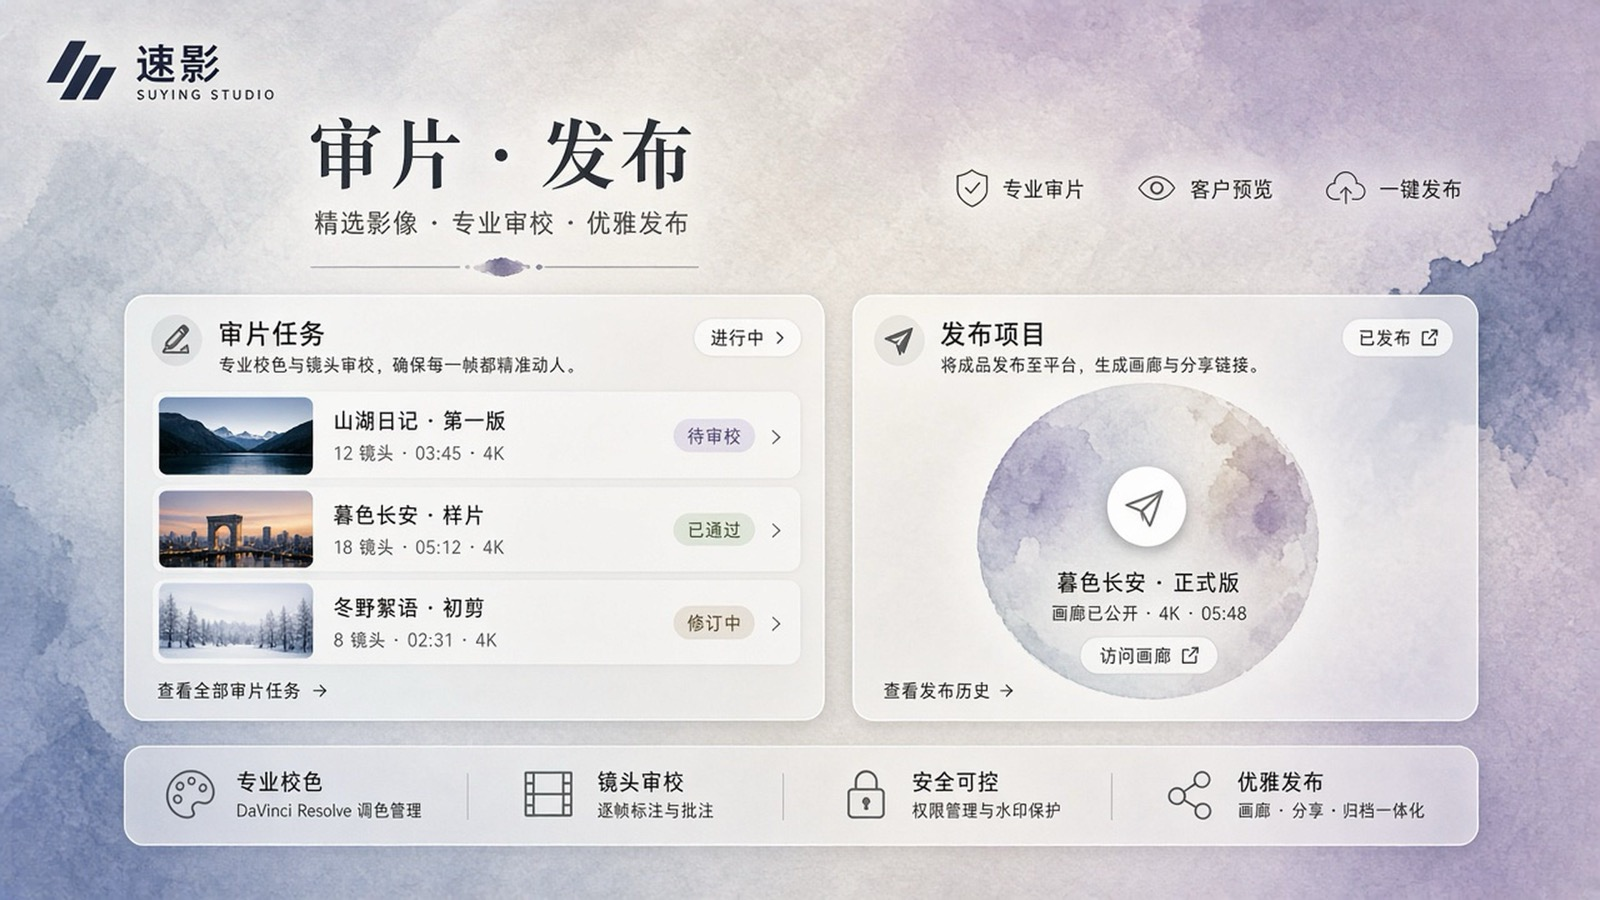
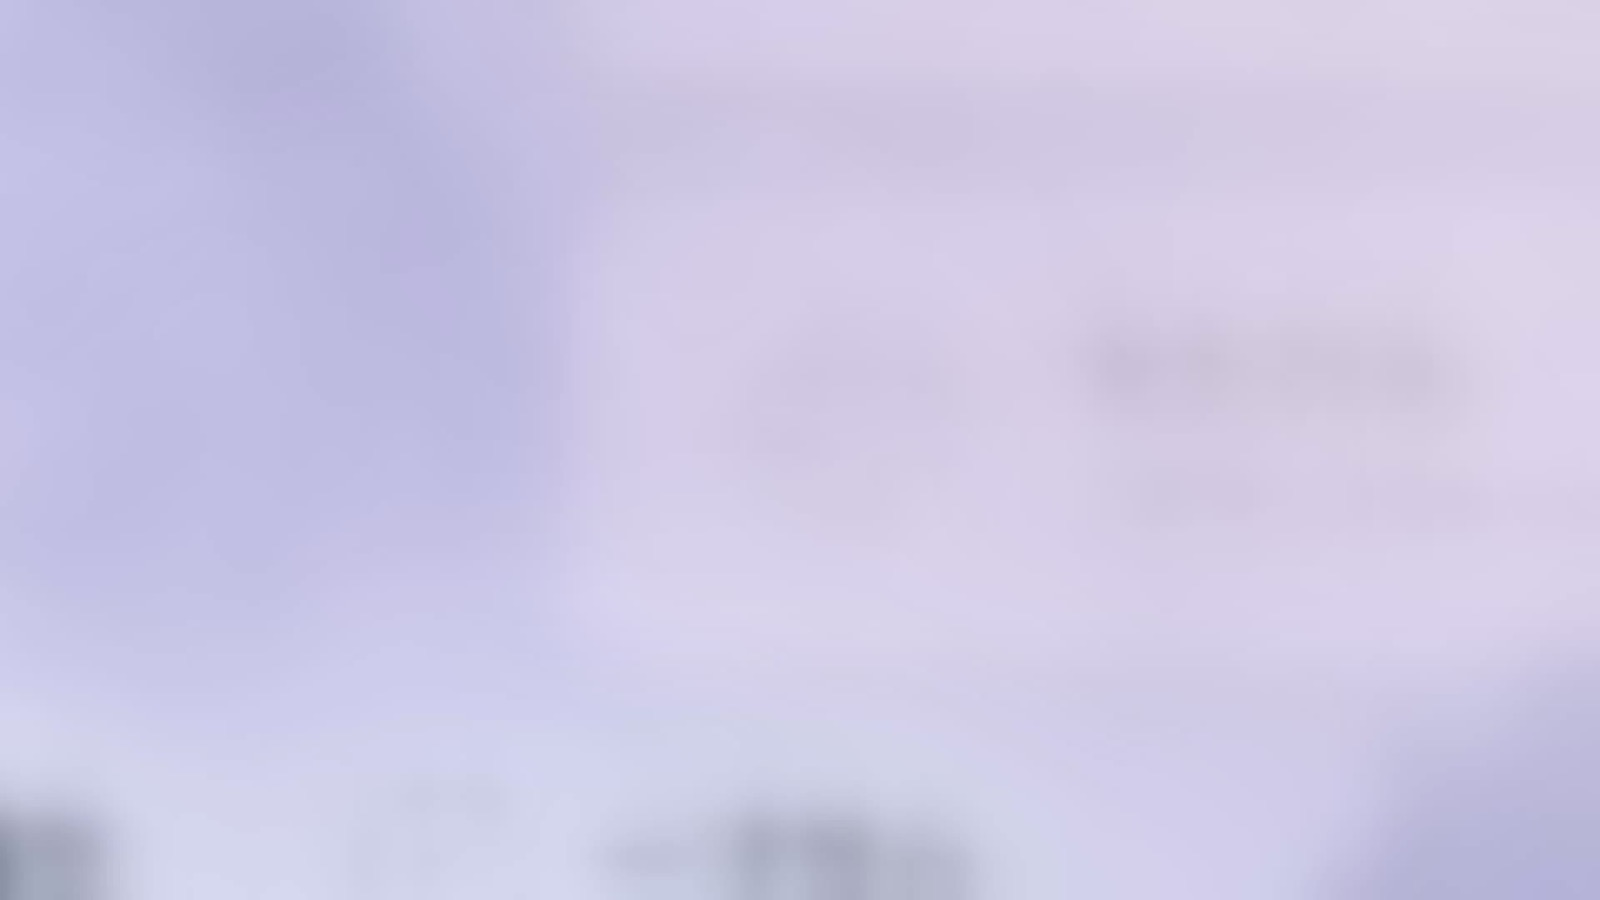
fix(desktop): fuse glass into pigment wash
Replace concept-UI wash (ghost glyphs) with abstract pigment texture,
drop opaque overview stage plates, and lower glass alpha so lavender
paper bleeds through rail/cards instead of sitting on a gray slab.

diff --git a/apps/desktop/src/styles/immersive.css b/apps/desktop/src/styles/immersive.css
@@ -12,14 +12,18 @@ body:has(.app--immersive) #root {
 /* ========== Stage: full-bleed watercolor paper ========== */
 .app.app--immersive,
 .app--gui.app--immersive {
-  background-color: #e6e0ea;
-  /* Wash photo first (visible), then only a light center veil — match AV paper */
+  /* Pure pigment stage: CSS wash fields + clean photo texture (no concept-UI ghosts) */
+  background-color: #ebe4ef;
   background-image:
-    radial-gradient(ellipse 50% 40% at 50% 45%, rgba(255, 255, 255, 0.22), transparent 70%),
+    radial-gradient(ellipse 70% 55% at 12% 18%, rgba(170, 155, 195, 0.45), transparent 62%),
+    radial-gradient(ellipse 65% 50% at 90% 10%, rgba(120, 105, 155, 0.38), transparent 58%),
+    radial-gradient(ellipse 55% 45% at 78% 88%, rgba(145, 130, 170, 0.32), transparent 60%),
+    radial-gradient(ellipse 50% 40% at 18% 85%, rgba(175, 185, 205, 0.28), transparent 55%),
+    radial-gradient(ellipse 48% 42% at 50% 48%, rgba(255, 252, 250, 0.55), transparent 70%),
     var(--wash-image);
-  background-size: cover, cover;
-  background-position: center, center;
-  background-attachment: fixed, fixed;
+  background-size: cover, cover, cover, cover, cover, cover;
+  background-position: center;
+  background-attachment: fixed;
   background-repeat: no-repeat;
   color: var(--text);
   font-family: var(--font-sans);
@@ -46,7 +50,7 @@ body:has(.app--immersive) #root {
   inset: 0;
   z-index: 0;
   background:
-    radial-gradient(ellipse 48% 38% at 52% 44%, rgba(255, 255, 255, 0.12), transparent 72%);
+    radial-gradient(ellipse 55% 45% at 50% 46%, rgba(255, 252, 250, 0.18), transparent 75%);
 }
 
 .app.app--immersive > * {
@@ -66,11 +70,11 @@ body:has(.app--immersive) #root {
   border-radius: 24px;
   border: 1px solid var(--line-glass);
   border-right: 1px solid var(--line-glass);
-  background: rgba(255, 255, 255, 0.38) !important;
+  background: rgba(255, 255, 255, 0.22) !important;
   box-shadow: var(--shadow-card);
-  backdrop-filter: var(--glass);
-  -webkit-backdrop-filter: var(--glass);
-  overflow: hidden;
+  backdrop-filter: var(--glass-strong);
+  -webkit-backdrop-filter: var(--glass-strong);
+  overflow: visible;
 }
 
 .app--immersive .topbar {
@@ -78,9 +82,9 @@ body:has(.app--immersive) #root {
   border-radius: 20px;
   border: 1px solid var(--line-glass);
   border-bottom: 1px solid var(--line-glass);
-  background: rgba(255, 255, 255, 0.4) !important;
-  backdrop-filter: var(--glass);
-  -webkit-backdrop-filter: var(--glass);
+  background: rgba(255, 255, 255, 0.22) !important;
+  backdrop-filter: var(--glass-strong);
+  -webkit-backdrop-filter: var(--glass-strong);
   box-shadow: var(--shadow-card);
 }
 
@@ -217,16 +221,29 @@ body:has(.app--immersive) #root {
 .app--immersive .app-dialog,
 .app--immersive .cmdk-panel,
 .app--immersive .page-stack > .panel,
-.app--immersive .overview-command,
 .app--immersive .pipeline-board,
 .app--immersive .overview-pipeline {
-  background: var(--surface-2) !important;
-  border: 1px solid var(--line-glass) !important;
+  background: rgba(255, 255, 255, 0.42) !important;
+  border: 1px solid rgba(255, 255, 255, 0.55) !important;
   box-shadow: var(--shadow-card) !important;
   border-radius: var(--radius) !important;
   backdrop-filter: var(--glass);
   -webkit-backdrop-filter: var(--glass);
   color: var(--text);
+}
+
+/* overview-command is a layout stage, NOT a frosted slab — wash must show through */
+.app--immersive .overview-command,
+.app--immersive .page-stack,
+.app--immersive .overview-page,
+.app--immersive .review-page,
+.app--immersive .publish-page,
+.app--immersive .tab-pane:not([hidden]) {
+  background: transparent !important;
+  border: 0 !important;
+  box-shadow: none !important;
+  backdrop-filter: none !important;
+  -webkit-backdrop-filter: none !important;
 }
 
 .app--immersive .stat {
@@ -453,12 +470,14 @@ body:has(.app--immersive) #root {
 }
 
 .app--immersive .av-card {
-  background: rgba(255, 255, 255, 0.62) !important;
-  border: 1px solid var(--line-glass) !important;
-  border-radius: 24px !important;
-  box-shadow: var(--shadow-float) !important;
-  backdrop-filter: var(--glass-strong);
-  -webkit-backdrop-filter: var(--glass-strong);
+  background: rgba(255, 255, 255, 0.30) !important;
+  border: 1px solid rgba(255, 255, 255, 0.45) !important;
+  border-radius: 26px !important;
+  box-shadow:
+    0 0 0 1px rgba(255, 255, 255, 0.25) inset,
+    0 18px 48px rgba(90, 70, 120, 0.07) !important;
+  backdrop-filter: blur(40px) saturate(1.45);
+  -webkit-backdrop-filter: blur(40px) saturate(1.45);
   padding: 22px 24px 18px;
   display: flex;
   flex-direction: column;
@@ -624,7 +643,7 @@ body:has(.app--immersive) #root {
   gap: 0;
   max-width: min(1100px, 100%);
   margin: 18px auto 12px;
-  background: rgba(255, 255, 255, 0.48);
+  background: rgba(255, 255, 255, 0.32);
   border: 1px solid var(--line-glass);
   border-radius: 22px;
   backdrop-filter: var(--glass-strong);
@@ -786,4 +805,63 @@ body:has(.app--immersive) #root {
     transition: none !important;
     transform: none !important;
   }
+}
+
+
+/* ========== Wash ↔ glass fusion (pigment-only wash; no concept-UI ghosts) ========== */
+.app--immersive .panel::before,
+.app--immersive .page-stack > .panel::before {
+  display: none !important;
+}
+
+.app--immersive .panel {
+  background: rgba(255, 255, 255, 0.40) !important;
+  background-image: none !important;
+  overflow: visible !important;
+  isolation: auto !important;
+}
+
+.app--immersive .workspace,
+.app--immersive .workspace > *,
+.app--immersive .tab-pane,
+.app--immersive .page-stack {
+  background: transparent !important;
+  isolation: auto !important;
+}
+
+/* Inner KPI / nested cards stay lightly glazed so wash still peeks */
+.app--immersive .stat,
+.app--immersive .overview-kpi-strip .stat,
+.app--immersive .status-chip,
+.app--immersive .topbar .chip,
+.app--immersive .topbar .pill {
+  background: rgba(255, 255, 255, 0.45) !important;
+  backdrop-filter: blur(16px) saturate(1.3);
+  -webkit-backdrop-filter: blur(16px) saturate(1.3);
+}
+
+.app--immersive .banner,
+.app--immersive .banner-ok,
+.app--immersive .banner.error,
+.app--immersive .alert-strip {
+  background: rgba(255, 255, 255, 0.36) !important;
+  backdrop-filter: blur(14px);
+  -webkit-backdrop-filter: blur(14px);
+}
+
+.app--immersive .banner.warn,
+.app--immersive [class*="warn-banner"],
+.app--immersive .device-warn {
+  background: rgba(255, 246, 220, 0.55) !important;
+}
+
+/* Active nav pill: soft white glaze, not solid block */
+.app--immersive .nav-btn.active {
+  background: rgba(255, 255, 255, 0.55) !important;
+}
+
+/* Soften app stage bg so wash edge color matches glass tint */
+.app.app--immersive,
+.app--gui.app--immersive {
+  background-color: transparent;
 }

diff --git a/apps/desktop/src/styles/tokens.css b/apps/desktop/src/styles/tokens.css
@@ -7,10 +7,10 @@
   --bg-1: #f3eef4;
   --bg-2: #faf7fb;
   --bg-3: #ffffff;
-  --surface-0: rgba(255, 255, 255, 0.42);
-  --surface-1: rgba(255, 255, 255, 0.58);
-  --surface-2: rgba(255, 255, 255, 0.72);
-  --surface-3: rgba(255, 255, 255, 0.86);
+  --surface-0: rgba(255, 255, 255, 0.28);
+  --surface-1: rgba(255, 255, 255, 0.40);
+  --surface-2: rgba(255, 255, 255, 0.48);
+  --surface-3: rgba(255, 255, 255, 0.62);
   --line: rgba(72, 58, 88, 0.1);
   --line-strong: rgba(72, 58, 88, 0.18);
   --line-glass: rgba(255, 255, 255, 0.72);
@@ -81,12 +81,13 @@
   --z-topbar: 30;
   --z-float: 40;
   --z-modal: 100;
-  --glass: blur(24px) saturate(1.2);
-  --glass-strong: blur(32px) saturate(1.25);
+  --glass: blur(28px) saturate(1.35);
+  --glass-strong: blur(36px) saturate(1.4);
 
   /* Exact AV wash asset */
-  --wash-image: url("/watercolor-wash.jpg");
-  --wash-image-sm: url("/watercolor-wash-sm.jpg");
+  /* pigment-only wash (v2: no concept-UI ghosts in the texture) */
+  --wash-image: url("/watercolor-wash.jpg?v=pigment3");
+  --wash-image-sm: url("/watercolor-wash-sm.jpg?v=pigment3");
   --vol-light:
     radial-gradient(ellipse 50% 42% at 50% 44%, rgba(255, 255, 255, 0.18), transparent 72%);
 
